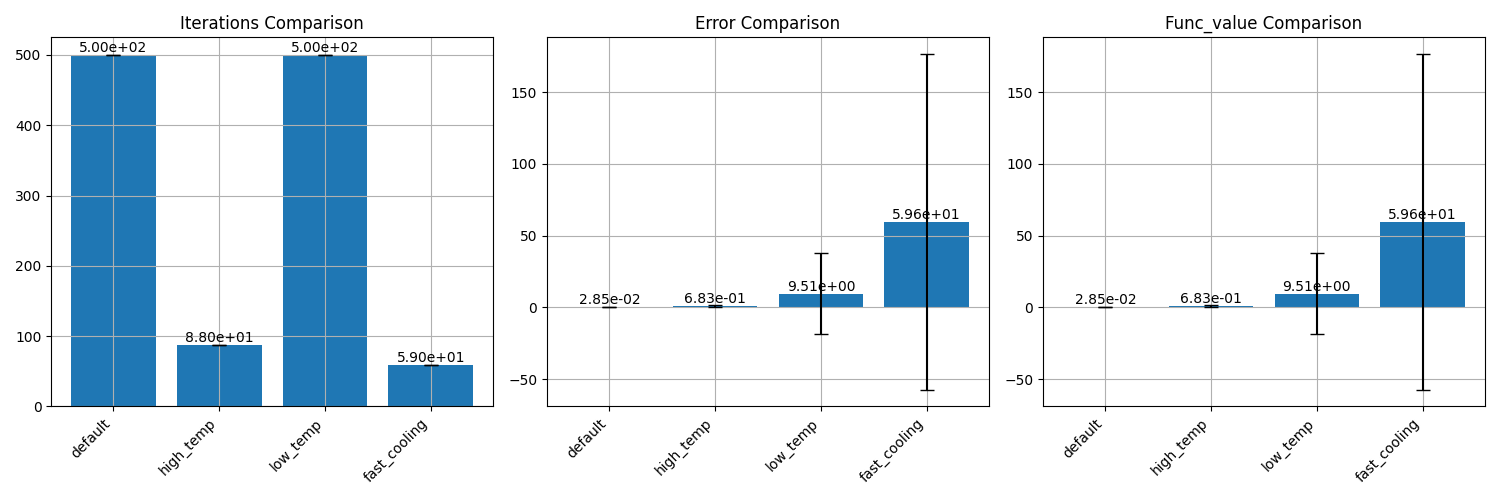
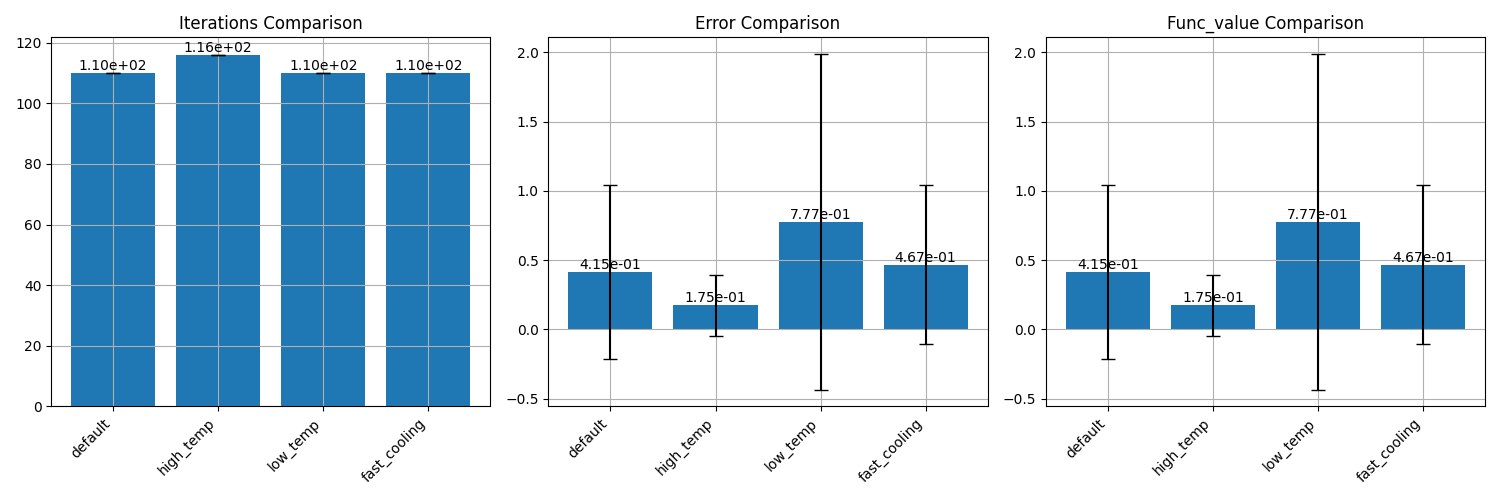
fix

diff --git a/lab4/annealing_tests.py b/lab4/annealing_tests.py
@@ -8,6 +8,7 @@ from lib.stats import BiFuncStatsDecorator
 import matplotlib.pyplot as plt
 from pathlib import Path
 from mpl_toolkits.mplot3d import Axes3D
+import random
 
 def print_x(prefix: str, x: Vector):
     print(prefix, end=" ")
@@ -22,9 +23,8 @@ def run_annealing_test(x0: Vector,
                       P: Callable[[float, float], float] = calc_probability,
                       t_max: float = 100,
                       t_min: float = 1e-3,
-                      test_name: str = "Test",
-                      max_iterations: int = 1000) -> Tuple[Dict, List[Vector]]:
-    x, iter_count, history = annealing(func, T, F, P, s0=x0, t_min=t_min, t_0=np.array([t_max]), max_iterations=max_iterations)
+                      test_name: str = "Test") -> Tuple[Dict, List[Vector]]:
+    x, iter_count, history = annealing(func, T, F, P, s0=x0, t_min=t_min, t_0=np.array([t_max]))
     
     print(f"\n{test_name}:")
     print_x("Оптимальная точка: ", x)
@@ -171,7 +171,6 @@ def plot_convergence(histories: Dict[str, List[List[Vector]]], func: BiFunc, sav
     plt.close()
 
 def run_multiple_tests(func: BiFunc, num_tests: int = 10):
-    """Run multiple tests with different parameters."""
     results = {
         'default': [],
         'high_temp': [],
@@ -186,26 +185,17 @@ def run_multiple_tests(func: BiFunc, num_tests: int = 10):
         'fast_cooling': []
     }
     
-    if func == frosenbrock:
-        t_max = 50
-        t_min = 1e-2
-        cooling_rate = 1 - 1e-2
-        max_iterations = 500
-        x_range = (-2, 2)
-    else:
-        t_max = 100
-        t_min = 1e-3
-        cooling_rate = 1 - 1e-2
-        max_iterations = 1000
-        x_range = (-5, 5)
+    t_max = 100
+    t_min = 1e-3
+    cooling_rate = 1 - 1e-1
+    x_range = (-2, 2)
     
     for _ in range(num_tests):
         x0 = np.random.uniform(x_range[0], x_range[1], size=2)
         result, history = run_annealing_test(
             x0, func, BiFuncCallableWrapper(random_F),
             calc_temperature(cooling_rate), calc_probability,
-            t_max=t_max, t_min=t_min, test_name="Default",
-            max_iterations=max_iterations
+            t_max=t_max, t_min=t_min, test_name="Default"
         )
         results['default'].append(result)
         histories['default'].append(history)
@@ -215,9 +205,7 @@ def run_multiple_tests(func: BiFunc, num_tests: int = 10):
         result, history = run_annealing_test(
             x0, func, BiFuncCallableWrapper(random_F),
             calc_temperature(1 - 1e-1), calc_probability,
-            t_max=t_max*2, t_min=t_min, test_name="High Temperature",
-            max_iterations=max_iterations
-        )
+            t_max=t_max*2, t_min=t_min, test_name="High Temperature")
         results['high_temp'].append(result)
         histories['high_temp'].append(history)
         
@@ -225,10 +213,8 @@ def run_multiple_tests(func: BiFunc, num_tests: int = 10):
         x0 = np.random.uniform(x_range[0], x_range[1], size=2)
         result, history = run_annealing_test(
             x0, func, BiFuncCallableWrapper(random_F),
-            calc_temperature(1 - 1e-3), calc_probability,
-            t_max=t_max/2, t_min=t_min, test_name="Low Temperature",
-            max_iterations=max_iterations
-        )
+            calc_temperature(cooling_rate), calc_probability,
+            t_max=t_max, t_min=t_min, test_name="Low Temperature")
         results['low_temp'].append(result)
         histories['low_temp'].append(history)
         
@@ -236,10 +222,8 @@ def run_multiple_tests(func: BiFunc, num_tests: int = 10):
         x0 = np.random.uniform(x_range[0], x_range[1], size=2)
         result, history = run_annealing_test(
             x0, func, BiFuncCallableWrapper(random_F),
-            calc_temperature(1 - 1e-1), calc_probability,
-            t_max=t_max, t_min=t_min*10, test_name="Fast Cooling",
-            max_iterations=max_iterations
-        )
+            calc_temperature(cooling_rate), calc_probability,
+            t_max=t_max, t_min=t_min, test_name="Fast Cooling")
         results['fast_cooling'].append(result)
         histories['fast_cooling'].append(history)
     
@@ -248,29 +232,40 @@ def run_multiple_tests(func: BiFunc, num_tests: int = 10):
     
     return results, histories
 
-def commivoyager_annealing_test(x0: Vector, correct_value: float = None):
+def commivoyager_annealing_test(x0: np.ndarray, correct_value: float = None):
     func = BiFuncCallableWrapper(commivoyager, correct_value)
-    x = run_annealing_test(x0, func, BiFuncCallableWrapper(commivoyager_F), calc_temperature(1 - 1e-4), test_name="Коммивояжер")
-    commivoyager_plot(x0, x, "Initial vs Optimized path")
+    result, _ = run_annealing_test(
+        x0, func, BiFuncCallableWrapper(commivoyager_F),
+        calc_temperature(1 - 1e-4), calc_probability,
+        test_name="Коммивояжер"
+    )
+    commivoyager_plot(x0, result['x'], "Initial vs Optimized path")
 
 def random_test(f: BiFunc):
+    """Test annealing algorithm on a random initial point."""
     x0 = np.array([0, 0])
-    run_annealing_test(x0, f, BiFuncCallableWrapper(random_F), calc_temperature(1 - 1e-1), test_name="LOL")
-    
+    result, _ = run_annealing_test(
+        x0, f, BiFuncCallableWrapper(random_F),
+        calc_temperature(1 - 1e-1), calc_probability,
+        t_max=100, t_min=1e-3, test_name="Random Test"
+    )
 
 def main():
     results, histories = run_multiple_tests(frosenbrock, num_tests=10)
     
-    print("\nSummary Statistics:")
-    print("-" * 80)
-    for test_name, test_results in results.items():
-        print(f"\n{test_name}:")
-        print(f"Average iterations: {np.mean([r['iterations'] for r in test_results]):.2f}")
-        print(f"Average function value: {np.mean([r['func_value'] for r in test_results]):.2e}")
-        print(f"Average error: {np.mean([r['error'] for r in test_results]):.2e}")
-        print(f"Best error: {min([r['error'] for r in test_results]):.2e}")
-        print(f"Worst error: {max([r['error'] for r in test_results]):.2e}")
-        print(f"Standard deviation: {np.std([r['error'] for r in test_results]):.2e}")
+    # print("\nSummary Statistics:")
+    # print("-" * 80)
+    # for test_name, test_results in results.items():
+    #     print(f"\n{test_name}:")
+    #     print(f"Average iterations: {np.mean([r['iterations'] for r in test_results]):.2f}")
+    #     print(f"Average function value: {np.mean([r['func_value'] for r in test_results]):.2e}")
+    #     print(f"Average error: {np.mean([r['error'] for r in test_results]):.2e}")
+    #     print(f"Best error: {min([r['error'] for r in test_results]):.2e}")
+    #     print(f"Worst error: {max([r['error'] for r in test_results]):.2e}")
+    #     print(f"Standard deviation: {np.std([r['error'] for r in test_results]):.2e}")
+    
+    x0 = np.array([[random.uniform(0, 200), random.uniform(0, 200)] for _ in range(100)])
+    commivoyager_annealing_test(x0)
 
 if __name__ == "__main__":
     main()

diff --git a/lab4/annealing.py b/lab4/annealing.py
@@ -43,38 +43,20 @@ def annealing(func: BiFunc,
               s0: Vector,
               t_min: float,
               t_0: Vector,
-              max_iterations: int = 1000) -> Tuple[Vector, int, List[Vector]]:
-    """
-    Simulated annealing algorithm for optimization.
-    
-    Args:
-        func: Objective function to minimize
-        T: Temperature function that takes temperature vector and iteration count
-        F: Function to generate new state
-        P: Probability function
-        s0: Initial state
-        t_min: Minimum temperature
-        t_0: Initial temperature
-        max_iterations: Maximum number of iterations
-        
-    Returns:
-        Tuple containing:
-        - Best state found
-        - Number of iterations performed
-        - History of states
-    """
-    assert t_min > 0, "t_min must be positive"
-    assert t_0[0] > 0, "t_0 must be positive"
-    
+              max_iterations: int = 1000) -> Vector:
     s = s0
     t = t_0
     iter_count = 0
     history = [s.copy()]
     
-    while t[0] > t_min and iter_count < max_iterations:
+    while t[0] > t_min:
         s_new = F(s)
-        if P(func(s_new), func(s)) > np.random.random():
+        ΔE = func(s_new) - func(s)
+        if ΔE <= 0:
             s = s_new
+        else:
+            p = P(ΔE, t[0])
+            s = calc_next_state(s_new, s, p)
         t = T(t, iter_count)
         iter_count += 1
         history.append(s.copy())
